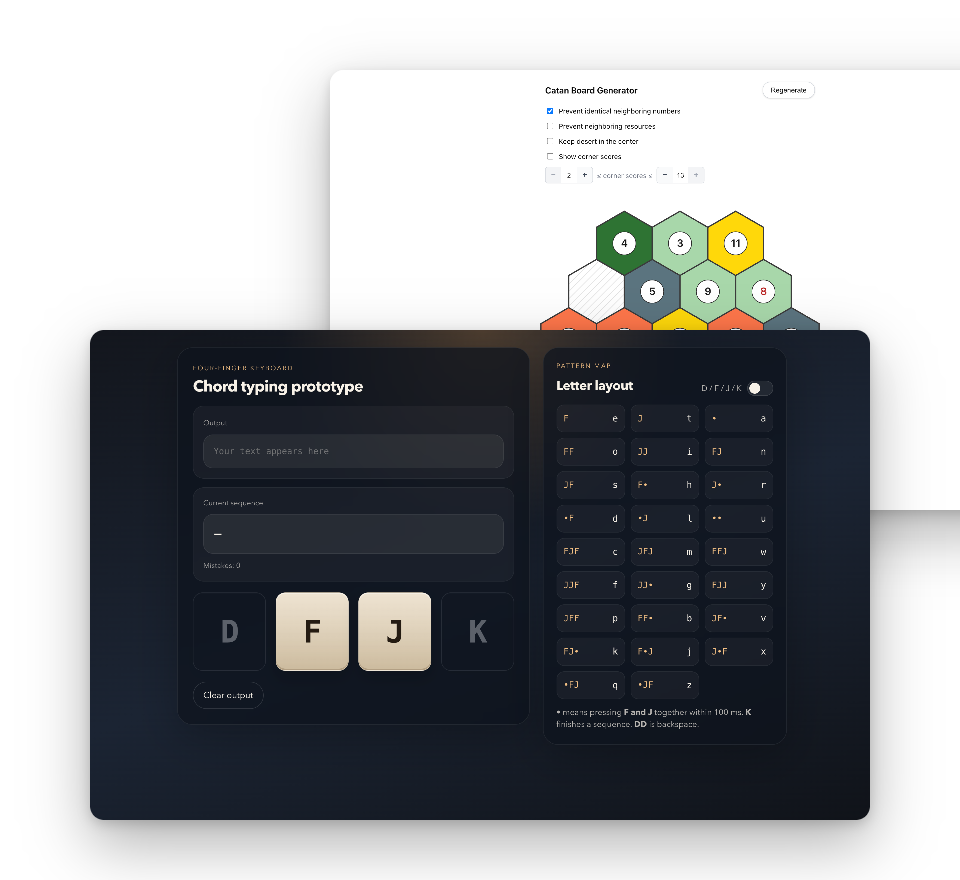
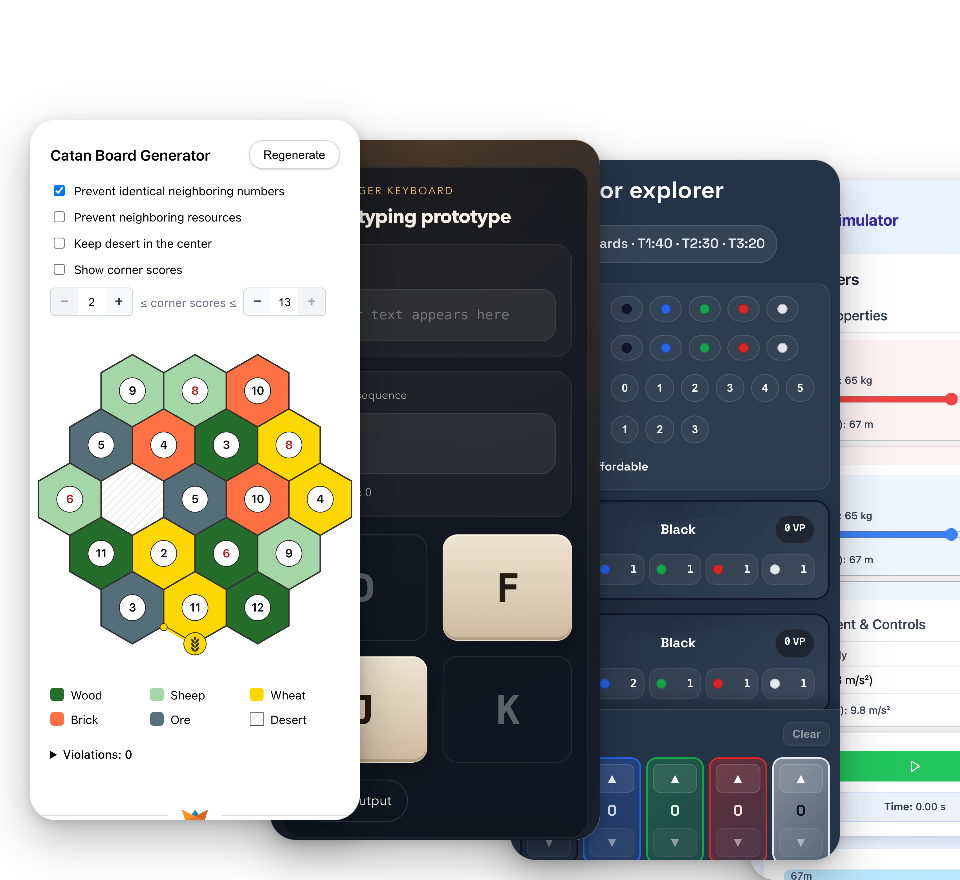
reworked the work previews to match existing conventions
- WebGazer: single shot bleeding off the edge, like autoinvite-chat
- Kafagoz: fan of overlapping mobile viewports, catan in front
- added the website field both entries were missing

diff --git a/works/kafagoz/index.md b/works/kafagoz/index.md
@@ -3,6 +3,7 @@ title: 'Kafagoz'
 date: 2026-01-01
 services: 'Front-end development, UI/UX design'
 tech: 'React, CSS3'
+website: 'https://kafagoz.com'
 featuredImg: '/kafagoz/preview.png'
 backgroundColor: "#2F3350"
 ---

diff --git a/works/webgazer/index.md b/works/webgazer/index.md
@@ -4,6 +4,7 @@ date: 2024-01-01
 client: WebGazer
 services: 'UI/UX design'
 tech: 'Figma'
+website: 'https://www.webgazer.io'
 featuredImg: '/webgazer/preview.png'
 backgroundColor: "#1D6FB8"
 ---
